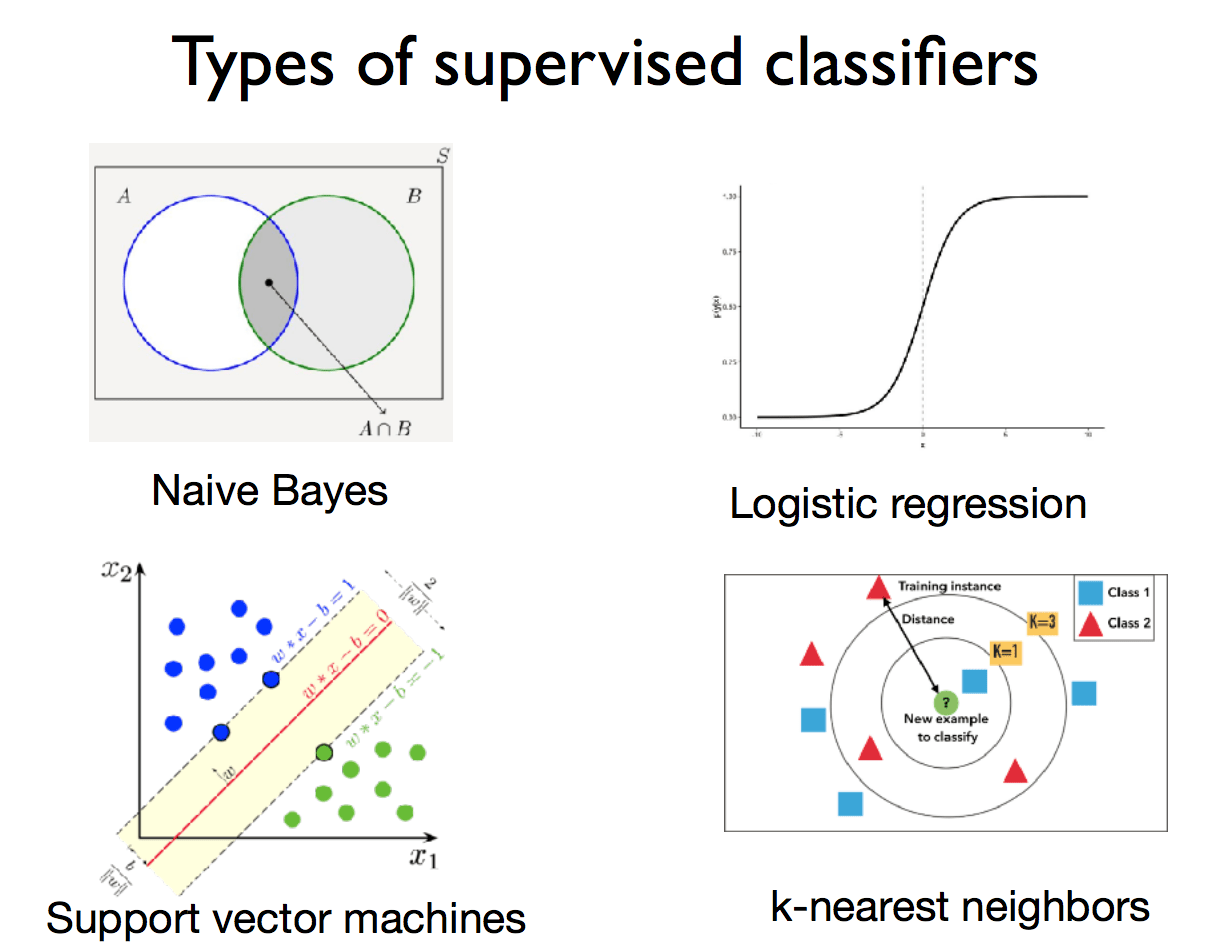
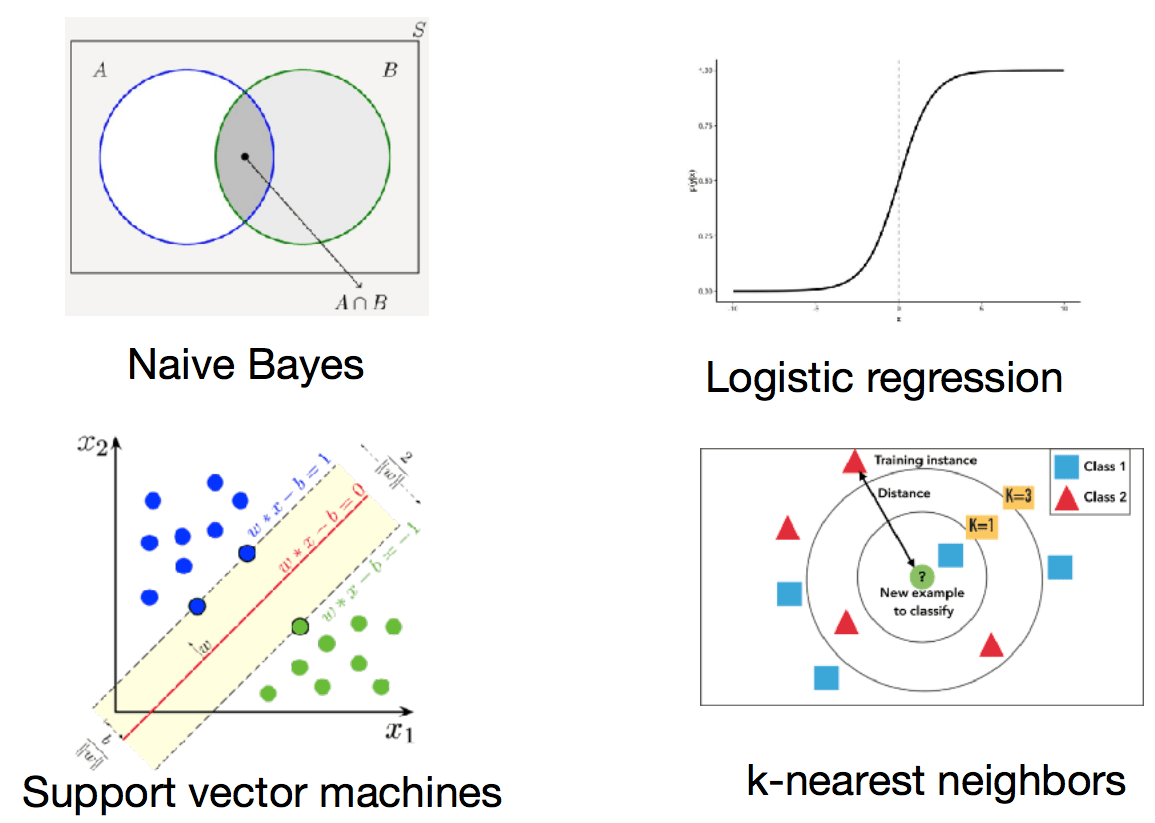
Update slides materials

diff --git a/assets/latex/linearmodels.tex b/assets/latex/linearmodels.tex
@@ -2,8 +2,8 @@
 \begin{document}
 \input{titlepage.tex}
 
-\author{}
-\institute{}
+%\author{}
+%\institute{}
 
 \lecture{Classification tasks in NLP}{}
 
@@ -130,7 +130,51 @@ use sophisticated smoothing model for PP attachment\\
   \end{itemize}
 \end{frame}
 
+\author{Angel Xuan Chang \\ 
+  {\color{RoyalBlue!70}{\href{http://angelxuanchang.github.io/nlp-class}{angelxuanchang.github.io/nlp-class}}} \\
+  {\color{gray}{adapted from lecture slides from \\ Anoop Sarkar, Danqi Chen and Karthik Narasimhan}}
+}
+
 \lecture{Probabilistic Classifiers}{}
+
+\begin{frame}
+\frametitle{Classification Task}
+\begin{itemize}[<+->]
+\item Input: 
+  \begin{itemize}
+  \item A document \highlight{$d$} 
+  \item a set of classes \highlight{$C = \{c_1, c_2, \ldots, c_m\}$}
+  \end{itemize}
+\item Output: Predicted class \highlight{$c$} for document \highlight{$d$}
+\item Example:
+  \begin{itemize}
+  \item {\color{red} neg} unbelievably disappointing 
+  \item {\color{green} pos} this is the greatest screwball comedy ever filmed  
+  \end{itemize}
+\end{itemize}
+\end{frame}
+
+\begin{frame}
+\frametitle{Supervised learning: Let's use statistics!}
+\begin{itemize}[<+->]
+\item Inputs: 
+  \begin{itemize}
+  \item Set of \highlight{$m$} classes \highlight{$C = \{c_1, c_2, \ldots, c_m\}$}
+  \item Set of \highlight{$n$} {\em labeled} documents: \highlight{$\{(d_1, c_1), (d_2, c_2), \ldots, (d_n, c_n)\}$}
+  \end{itemize}
+\item Output: Trained classifier \highlight{$F: d \rightarrow c$}
+  \begin{itemize}
+  \item What form should \highlight{$F$} take?
+  \item How to learn \highlight{$F$}?
+  \end{itemize}
+\end{itemize}
+\note{Data-driven approach. Let machine figure out the best function to use}
+\end{frame}
+
+\begin{frame}
+\frametitle{Types of supervised classifiers}
+\includegraphics[scale=0.27]{figures/classifiers/supervised.png}
+\end{frame}
 
 \section{Naive Bayes Classifier}
 \frame{\tableofcontents[currentsection]}
@@ -146,6 +190,270 @@ use sophisticated smoothing model for PP attachment\\
 \item We can ignore $P({\bf x})$ in the above equation because it is a constant scaling factor for each $y$.
 \end{itemize}
 \end{frame}
+
+\begin{frame}
+\frametitle{Naive Bayes Classifier for text classification}
+\begin{itemize}[<+->]
+\item For text classificaiton: input $\textbf{x} = document \textbf{d} = (w_1, \ldots, w_k)$, 
+\item Use as our features the words $w_j$, $1 \leq j \leq |V|$ where $V$ is our vocabulary 
+\item $c$ is the output classification
+\item Assume that position of each word is irrelevant and that the words are \highlight{conditionally independent} given class $c$
+\begin{equation*}
+P(w_1, w_2, \ldots, w_k | c) = P(w_1|c) P(w_2|c) \ldots P(w_k|c) 
+\end{equation*} 
+\item Maximum a posteriori estimate
+\begin{equation*}
+c_{\text{MAP}} = \argmax_{c} P(c) P(d|c)  = \argmax_{c} \hat{P}(c) \prod_{i=1}^{k} \hat{P}(w_i | c)
+\end{equation*}
+\end{itemize}
+\end{frame}
+
+\begin{frame}
+\frametitle{Bag of words}
+\includegraphics[scale=0.25]{figures/classifiers/bow.png}
+\end{frame}
+
+\begin{frame}
+\frametitle{Estimating probabilities}
+\begin{block}{Maximum likelihood estimate}
+\begin{equation*}\hat{P}(c_j) = \frac{\cnt(c_j)}{n}\end{equation*} \\
+\pause
+\begin{equation*}\hat{P}(w_i | c_j) = \frac{\cnt(w_i, c_j)}{\sum_{w \in V}[\cnt(w, c_j)]}\end{equation*}
+\end{block}
+\pause
+\begin{block}{Smoothing}
+\begin{equation*}\hat{P}(w_i | c) = \frac{\cnt(w_i, c) + \alpha}{\sum_{w \in V}[\cnt(w, c_j) + \alpha ]}\end{equation*}
+\note{simple, easy to use, effective in practice}
+\end{block}
+\end{frame}
+
+\begin{frame}
+\frametitle{Overall process}
+Input: Set of labeled documents: $\{(d_i, c_i)\}_{i=1}^n$
+\begin{itemize}[<+->]
+\item Compute vocabulary $V$ of all words
+\item Calculate \begin{equation*}\hat{P}(c_j) = \frac{\cnt(c_j)}{n}\end{equation*}
+\item Calculate \begin{equation*}\hat{P}(w_i | c_j) = \frac{\cnt(w_i, c_j) + \alpha}{\sum_{w \in V}[\cnt(w, c_j) + \alpha ]}\end{equation*}
+\item Prediction: Given document $d = (w_1, \ldots, w_k)$
+\begin{equation*}
+c_{\text{MAP}} = \argmax_{c} \hat{P}(c) \prod_{i=1}^{k} \hat{P}(w_i | c)
+\end{equation*}
+\end{itemize}
+\note{n = Total number of docs}
+\note{MAP = Maximum a posteriori}
+\end{frame}
+
+\begin{frame}
+\frametitle{Naive Bayes Example}
+\includegraphics[scale=0.25]{figures/classifiers/nbexample.png}
+\end{frame}
+
+\begin{frame}
+\frametitle{Tokenization}
+\begin{block}{Tokenization matters - it can affect your vocabulary}
+\begin{itemize}[<+->]
+  \item {\em aren't}
+    \framebox{aren't} \\
+    \framebox{arent} \\
+    \framebox{are} \framebox{n't} \\
+    \framebox{aren} \framebox{t} \\
+  \item Emails, URLs, phone numbers, dates, emoticons 
+\end{itemize}
+\end{block}
+\end{frame}
+
+\begin{frame}
+\frametitle{Features}
+\begin{itemize}[<+->]
+\item Remember: Naive Bayes can use any set of features
+\item Captitalization, subword features (end with -ing), etc
+\item Domain knowledge crucial for performance
+\end{itemize}
+
+\pause
+\begin{block}{Top features for spam detection}
+\includegraphics[scale=0.25]{figures/classifiers/features.png}
+\\
+\mycite{Alqatawna et al, IJCNSS 2015}
+\end{block}
+\end{frame}
+
+\begin{frame}
+\frametitle{Evaluation}
+\begin{itemize}[<+->]
+\item Table of prediction (binary classification)
+\includegraphics[scale=0.25]{figures/classifiers/evalex1.png}
+\item Ideally we want to get \\
+\includegraphics[scale=0.25]{figures/classifiers/evalex0.png}
+\end{itemize}
+\end{frame}
+
+\begin{frame}
+\frametitle{Evaluation Metrics}
+\includegraphics[scale=0.25]{figures/classifiers/evalex1.png}
+\\
+\centering
+\includegraphics[scale=0.25]{figures/classifiers/evalterms.png}
+\begin{equation*}
+\textbf{Accuracy} = \frac{TP + TN}{Total} = \frac{200}{250} = 80\%
+\end{equation*}
+\end{frame}
+
+\begin{frame}
+\frametitle{Evaluation Metrics}
+\includegraphics[scale=0.25]{figures/classifiers/evalex2.png}
+\\
+\centering
+\includegraphics[scale=0.25]{figures/classifiers/evalterms.png}
+\begin{equation*}
+\textbf{Accuracy} = \frac{TP + TN}{Total} = \frac{200}{250} = 80\%
+\end{equation*}
+\end{frame}
+
+\begin{frame}
+\frametitle{Precision and Recall}
+\centering
+\includegraphics[scale=0.25]{figures/classifiers/prdef.png}
+\end{frame}
+
+\begin{frame}
+\frametitle{Precision and Recall}
+\centering
+\includegraphics[scale=0.40]{figures/classifiers/evalterms.png}
+\includegraphics[scale=0.40]{figures/classifiers/pr.png}
+\\
+\footnotesize{from Wikipedia}
+\end{frame}
+
+\begin{frame}
+\frametitle{F-Score}
+\includegraphics[scale=0.25]{figures/classifiers/fscore.png}
+\end{frame}
+
+\begin{frame}
+\frametitle{Choosing Beta}
+\includegraphics[scale=0.25]{figures/classifiers/beta.png}
+\end{frame}
+
+\begin{frame}
+\frametitle{Aggregating scores}
+\begin{itemize}[<+->]
+\item We have Precision, Recall, F1 for each class
+\item How to combine them for an overall score?
+  \begin{itemize}
+  \item Macro-average: Compute for each class, then average
+  \item Micro-average: Collect predictions for all classes and jointly evaluate
+  \end{itemize}
+\end{itemize}
+\end{frame}
+
+\begin{frame}
+\frametitle{Macro vs Micro average}
+\includegraphics[scale=0.25]{figures/classifiers/averaging.png}
+\begin{itemize}[<+->]
+\item Macroaveraged precision: $(0.5+0.9)/2=0.7$
+\item Microaveraged precision: $100/120=.83$
+\item Microaveraged score is dominated by score on common classes
+\end{itemize}
+\end{frame}
+
+\begin{frame}
+\frametitle{Validation}
+\includegraphics[scale=0.25]{figures/classifiers/splits.png}
+\begin{itemize}[<+->]
+\item Choose a metric: Precision/Recall/F1
+\item Optimize for metric on {\color{green} Validation} (aka Development) set
+\item Finally evaluate on ‘unseen’ {\color{red} Test} set
+\item Cross-validation
+  \begin{itemize}
+  \item Repeatedly sample several train-val splits
+  \item Reduces bias due to sampling errors \\
+  \includegraphics[scale=0.25]{figures/classifiers/cv.png}
+  \end{itemize}
+\end{itemize}
+\end{frame}
+
+\begin{frame}
+\frametitle{Advantanges of Naive Bayes}
+\begin{itemize}[<+->]
+\item Very fast, low storage requirements
+\item Robust to irrelevant features
+\item Very good in domains with many equally important features
+\item Optimal if the independence assumptions hold
+\item Good dependable baseline for text classification
+\end{itemize}
+\end{frame}
+
+
+\begin{frame}
+\frametitle{When to use Naive Bayes}
+\begin{itemize}[<+->]
+\item Small data sizes: Naive Bayes is great! \note{high bias}.
+ \\ Rule-based classifiers can work well too
+\item Medium size datasets: More advanced classifiers might perform better (SVM, logistic regression)
+\item Large datasets: Naive Bayes becomes competive again (most learned classifiers will work well)
+\end{itemize}
+\end{frame}
+
+\begin{frame}
+\frametitle{Failings of Naive Bayes (1)}
+\begin{block}{Independence assumptions are too strong}
+\begin{itemize}[<+->]
+\item XOR problem: Naive Bayes cannot learn a decision boundary
+\pause
+\includegraphics[scale=0.25]{figures/classifiers/xor.png}
+\item Both variables are jointly required to predict class. Independence assumption broken!
+\end{itemize}
+\end{block}
+\end{frame}
+
+\begin{frame}
+\frametitle{Failings of Naive Bayes (2)}
+\begin{block}{Class Imbalance}
+\begin{itemize}[<+->]
+\item One or more classes have more instances than others
+\item Data skew causes NB to prefer one class over the other
+%\item Solution: Complement Naive Bayes \mycite{Rennie et al., 2003}
+\end{itemize}
+\end{block}
+\end{frame}
+
+
+\begin{frame}
+\frametitle{Failings of Naive Bayes (3)}
+\begin{block}{Weight magnitude errors}
+\begin{itemize}[<+->]
+\item Classes with larger weights are preferred
+\item 10 documents with class=MA and “Boston” occurring once each
+\item 10 documents with class=CA and “San Francisco” occurring once each
+\item New document $d$: “Boston Boston Boston San Francisco San Francisco”
+\pause
+\\
+\begin{equation*}
+P(\text{class}=\text{CA} | d) > P(\text{class} = \text{MA} | d)
+\end{equation*}
+\end{itemize}
+\end{block}
+\end{frame}
+
+\begin{frame}
+\frametitle{Naive Bayes Summary}
+\begin{itemize}[<+->]
+\item Domain knowledge is crucial to selecting good features
+\item Handle class imbalance by re-weighting classes
+\item Use log scale operations instead of multiplying probabilities
+\begin{equation*}
+P(c_{NB}) = \argmax_{c_j \in C} \log P(c_j) + \sum_{i} \log P(x_i | c_j)
+\end{equation*}
+\item Model is now just max of sum of weights
+\end{itemize}
+\end{frame}
+
+
+\author{Angel Xuan Chang \\ 
+  {\color{RoyalBlue!70}{\href{http://angelxuanchang.github.io/nlp-class}{angelxuanchang.github.io/nlp-class}}} \\
+  {\color{gray}{adapted from lecture slides from Anoop Sarkar}}
+}
 
 \section{Log linear models}
 \frame{\tableofcontents[currentsection]}

diff --git a/assets/latex/acknowledgements.tex b/assets/latex/acknowledgements.tex
@@ -4,7 +4,7 @@
 \begin{frame}
 \centering
 \begin{alertblock}{Acknowledgements}
-Many slides borrowed or inspired from lecture notes by Anoop Sarkar, Dan Jurafsky, Michael Collins, Chris Dyer, Kevin Knight, Chris Manning, Philipp Koehn, Adam Lopez, Graham Neubig, Richard Socher and Luke Zettlemoyer from their NLP course materials. 
+Many slides borrowed or inspired from lecture notes by Anoop Sarkar, Danqi Chen, Karthik Narasimhan, Dan Jurafsky, Michael Collins, Chris Dyer, Kevin Knight, Chris Manning, Philipp Koehn, Adam Lopez, Graham Neubig, Richard Socher and Luke Zettlemoyer from their NLP course materials. 
 
 \bigskip
 

diff --git a/assets/latex/beamerpreamble.tex b/assets/latex/beamerpreamble.tex
@@ -31,6 +31,12 @@
 \newcommand{\xmark}{\ding{55}}
 
 \newcommand{\highlight}[1]{{\color{blue}{#1}}}
+\newcommand{\mycite}[1]{{\color{darkgray}{\footnotesize [#1]}}}
+
+\DeclareMathOperator*{\argmin}{arg\,min}
+\DeclareMathOperator*{\argmax}{arg\,max}
+\DeclareMathOperator{\sign}{sign}
+\DeclareMathOperator{\cnt}{Count}
 
 \newcounter{mycallout}
 
